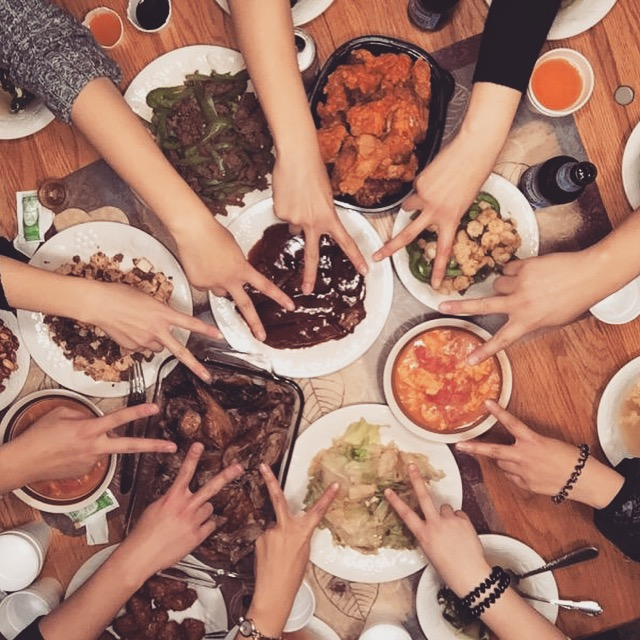
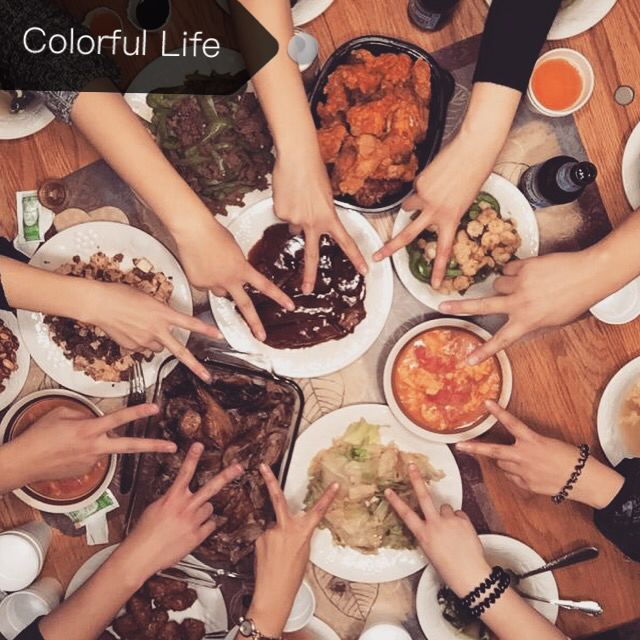
main hover solved

Changed region(s): [[0.0, 0.0, 0.5, 0.1562]]

diff --git a/public/styles/main.css b/public/styles/main.css
@@ -93,55 +93,15 @@ body {
       body .home-content .section.developer {
         background-image: url(../images/main/developer-bw.jpg); }
       body .home-content .section.developer:hover {
-        background-image: url(../images/main/developer.png); }
+        background-image: url(../images/main/developer.jpg); }
       body .home-content .section.designer {
         background-image: url(../images/main/designer-bw.jpg); }
       body .home-content .section.designer:hover {
-        background-image: url(../images/main/designer.png); }
+        background-image: url(../images/main/designer.jpg); }
       body .home-content .section.life {
         background-image: url(../images/main/life-bw.jpg); }
       body .home-content .section.life:hover {
         background-image: url(../images/main/life.jpg); }
-    body .home-content span {
-      background-color: #000;
-      color: #fff;
-      display: table;
-      height: 5vh;
-      position: absolute;
-      width: calc(20% + 3px);
-      font-size: 21px;
-      font-weight: 800;
-      text-align: center;
-      -webkit-transition: opacity 500ms;
-      -moz-transition: opacity 500ms;
-      -o-transition: opacity 500ms;
-      transition: opacity 500ms;
-      font-family: cursive;
-      padding-top: 3px; }
-      body .home-content span.left.up {
-        top: 43vh;
-        right: calc(24% - 3px);
-        opacity: 0; }
-      body .home-content span.left.below {
-        top: calc(85vh + 1px);
-        right: calc(24% - 3px);
-        opacity: 0; }
-      body .home-content span.right.up {
-        top: 43vh;
-        right: calc(2% - 1px);
-        opacity: 0; }
-      body .home-content span.right.below {
-        top: calc(85vh + 1px);
-        right: calc(2% - 1px);
-        opacity: 0; }
-    body .home-content .aboutme:hover span.left.up {
-      opacity: 1; }
-    body .home-content .developer:hover span.right.up {
-      opacity: 1; }
-    body .home-content .designer:hover span.left.below {
-      opacity: 1; }
-    body .home-content .life:hover span.right.below {
-      opacity: 1; }
   body nav {
     text-align: right;
     padding: 10vh 5% 5px;

diff --git a/public/sass/v1/_home.scss b/public/sass/v1/_home.scss
@@ -122,7 +122,7 @@ body {
       }
 
       &.developer:hover {
-        background-image: url(../images/main/developer.png);
+        background-image: url(../images/main/developer.jpg);
       }
 
       &.designer {
@@ -130,7 +130,7 @@ body {
       }
 
       &.designer:hover {
-        background-image: url(../images/main/designer.png);
+        background-image: url(../images/main/designer.jpg);
       }
 
       &.life {
@@ -140,64 +140,6 @@ body {
       &.life:hover {
         background-image: url(../images/main/life.jpg);
       }
-    }
-
-    span {
-      background-color: #000;
-      color: #fff;
-      display: table;
-      height: 5vh;
-      position: absolute;
-      width: calc(20% + 3px);
-      font-size: 21px;
-      font-weight: 800;
-      text-align: center;
-      -webkit-transition: opacity 500ms;
-      -moz-transition: opacity 500ms;
-      -o-transition: opacity 500ms;
-      transition: opacity 500ms;
-      font-family: cursive;
-      padding-top: 3px;
-
-      &.left.up {
-        top: 43vh;
-        right: calc(24% - 3px);
-        opacity: 0;
-      }
-
-      &.left.below {
-        top: calc(85vh + 1px);
-        right: calc(24% - 3px);
-        opacity: 0;
-      }
-
-      &.right.up {
-        top: 43vh;
-        right: calc(2% - 1px);
-        opacity: 0;
-      }
-
-      &.right.below {
-        top: calc(85vh + 1px);
-        right: calc(2% - 1px);
-        opacity: 0;
-      }
-    }
-
-    .aboutme:hover span.left.up {
-      opacity: 1;
-    }
-
-    .developer:hover span.right.up {
-      opacity: 1;
-    }
-
-    .designer:hover span.left.below {
-      opacity: 1;
-    }
-
-    .life:hover span.right.below {
-      opacity: 1;
     }
   }
 

diff --git a/public/scripts/app/content/home.html b/public/scripts/app/content/home.html
@@ -41,18 +41,14 @@
 <div class="home-content">
     <a class="aboutme" href="#aboutme">
         <div class="section left aboutme"></div>
-        <span class="left up">About Me</span>
     </a>
     <a class="developer" href="#developer">
         <div class="section right developer"></div>
-        <span class="right up">Developer Portfolio</span>
     </a>
     <a class="designer" href="#designer">
         <div class="section left designer"></div>
-        <span class="left below">Design Newbie</span>
     </a>
     <a class="life" href="#life">
         <div class="section right life"></div>
-        <span class="right below">Colorful Life</span>
     </a>
 </div>
